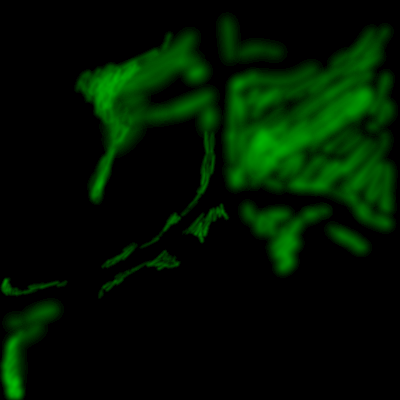
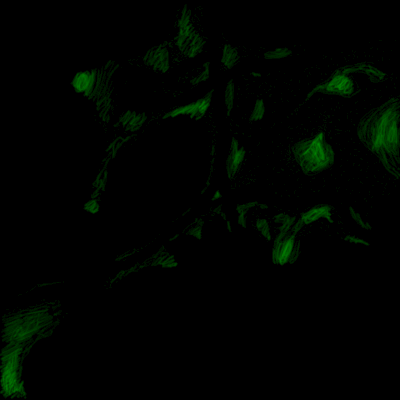
Add grass and trees

diff --git a/src/game/main.ts b/src/game/main.ts
@@ -8,6 +8,7 @@ import {
   AmbientLight,
   Camera,
   Vector3,
+  PointLight,
 } from 'three';
 import {
   createCameraService,
@@ -29,8 +30,10 @@ import type {
   ErrorHandlerPrototype,
   Game,
   GameConfig,
-  HeightMap, Point2D
-} from "./types";
+  HeightMap,
+  Point2D,
+  Point3D,
+} from './types';
 import { createTicker } from './ticker';
 import { createControls } from './controls';
 
@@ -147,7 +150,7 @@ async function createGrass({
   scene: Scene;
   heightMap: HeightMap;
 }) {
-  const texture = await Loader.texture(`/assets/map/${mapIndex}/grass.png`);
+  const texture = await Loader.texture(`/assets/map/${mapIndex}/grass2.png`);
   const grassMap = await Loader.texture(
     `/assets/map/${mapIndex}/masks/grass.png`
   );
@@ -158,10 +161,6 @@ async function createGrass({
   });
   system.useCamera(camera);
   system.addTo(scene);
-  // const mapSize = 200;
-  // const stepSize = 1;
-  // let x = -mapSize;
-  // let z = -mapSize;
 
   const grassCountFn = FunctionBuilder.linear.d2d([
     {
@@ -170,7 +169,7 @@ async function createGrass({
     },
     {
       x: 100,
-      y: 2,
+      y: 1,
     },
     {
       x: 200,
@@ -178,7 +177,7 @@ async function createGrass({
     },
     {
       x: 255,
-      y: 15,
+      y: 8,
     },
   ]);
   const xs = Object.keys(dMap).map((e) => parseInt(e));
@@ -208,67 +207,95 @@ async function createGrass({
             },
           });
         }
-        // system.addParticle({
-        //   position: new Vector3(x, y, z),
-        //   angle: {
-        //     x: 0,
-        //     y: 0,
-        //   },
-        //   size: 1,
-        //   color: {
-        //     value: new Color(1, 1, 1),
-        //     alpha: 1,
-        //   },
-        // });
       }
     }
   }
-  // for (let i = 0; i < dMap.length; i++) {
-  //   const item = dMap[i];
-  //   const grassCount = grassCountFn(item);
-  //   if (grassCount > 0) {
-  //     const y = heightMap.get(x, z);
-  //     system.addParticle({
-  //       position: new Vector3(x, y, z),
-  //       angle: {
-  //         x: 0,
-  //         y: 0,
-  //       },
-  //       size: 1,
-  //       color: {
-  //         value: new Color(1, 1, 1),
-  //         alpha: 1,
-  //       },
-  //     });
-  //     // for (let j = 0; j < grassCount; j++) {
-  //     //   const offset: Point2D = {
-  //     //     x: Math.random() * 2,
-  //     //     y: Math.random() * 2,
-  //     //   };
-  //     //   system.addParticle({
-  //     //     position: new Vector3(x + offset.x, y, z + offset.y),
-  //     //     angle: {
-  //     //       x: 0,
-  //     //       y: 0,
-  //     //     },
-  //     //     size: 1,
-  //     //     color: {
-  //     //       value: new Color(1, 1, 1),
-  //     //       alpha: 1,
-  //     //     },
-  //     //   });
-  //     // }
-  //   }
-  //   x += stepSize;
-  //   if (x > mapSize) {
-  //     x = -mapSize;
-  //     z += stepSize;
-  //   }
-  // }
   system.updateParticles();
   system.updateGeometry();
 
   return { system };
+}
+async function createTrees({
+  mapIndex,
+  scene,
+  heightMap,
+}: {
+  mapIndex: number;
+  scene: Scene;
+  heightMap: HeightMap;
+}) {
+  const treeMap = await Loader.texture(
+    `/assets/map/${mapIndex}/masks/tree.png`
+  );
+  const dMap = DensityMap.getPixelArray(treeMap, 'r');
+
+  const _tree = await Loader.gltf(`/assets/map/${mapIndex}/trees/0.gltf`);
+  const _treeSmall = await Loader.gltf(`/assets/map/${mapIndex}/trees/1.gltf`);
+  const _treeBush = await Loader.gltf(`/assets/map/${mapIndex}/trees/2.gltf`);
+  _tree.scene.traverse((c) => {
+    c.castShadow = true;
+  });
+  _treeSmall.scene.traverse((c) => {
+    c.castShadow = true;
+  });
+  const treeAngleFn = FunctionBuilder.linear.d2d([
+    {
+      x: 0,
+      y: -Math.PI,
+    },
+    {
+      x: 1,
+      y: Math.PI,
+    },
+  ]);
+  const xs = Object.keys(dMap).map((e) => parseInt(e));
+  for (let i = 0; i < xs.length; i++) {
+    const x = xs[i];
+    const zs = Object.keys(dMap[x]).map((e) => parseInt(e));
+    for (let j = 0; j < zs.length; j++) {
+      const z = zs[j];
+      if (dMap[x][z] > 253) {
+        const y = heightMap.get(x, z);
+        const tree = _tree.scene.clone();
+        const offset: Point3D = {
+          x: Math.random() * 2,
+          y: Math.random() * 2,
+          z: Math.random() + 2,
+        };
+        tree.scale.setScalar(offset.z);
+        tree.position.set(x, y, z);
+        tree.rotation.y = treeAngleFn(Math.random());
+        scene.add(tree);
+        const pointLight = new PointLight(0x00ffff, 0.5, 20);
+        pointLight.position.set(tree.position.x, 10, tree.position.z);
+        scene.add(pointLight);
+      } else if (dMap[x][z] > 140 && dMap[x][z] < 160) {
+        const y = DistanceUtil.ground.height({ x, y: z });
+        const tree = _treeSmall.scene.clone();
+        const offset: Point3D = {
+          x: Math.random() * 2,
+          y: Math.random() * 2,
+          z: Math.random() + 0.5,
+        };
+        tree.scale.setScalar(offset.z);
+        tree.position.set(x, y, z);
+        tree.rotation.y = treeAngleFn(Math.random());
+        scene.add(tree);
+      } else if (dMap[x][z] > 0) {
+        const y = DistanceUtil.ground.height({ x, y: z });
+        const tree = _treeBush.scene.clone();
+        const offset: Point3D = {
+          x: Math.random(),
+          y: Math.random(),
+          z: Math.random() + 0.2,
+        };
+        tree.scale.setScalar(offset.z);
+        tree.position.set(x + offset.x, y, z + offset.y);
+        tree.rotation.y = treeAngleFn(Math.random());
+        scene.add(tree);
+      }
+    }
+  }
 }
 export async function createGame(config: GameConfig): Promise<Game> {
   const timeOffset = Date.now();
@@ -343,6 +370,15 @@ export async function createGame(config: GameConfig): Promise<Game> {
         heightMap: terrainHeightMap,
         scene,
         camera,
+        mapIndex,
+      })
+  );
+  await TimeTrackerUtil.track.timeToComplete(
+    'Create trees',
+    async () =>
+      await createTrees({
+        heightMap: terrainHeightMap,
+        scene,
         mapIndex,
       })
   );
